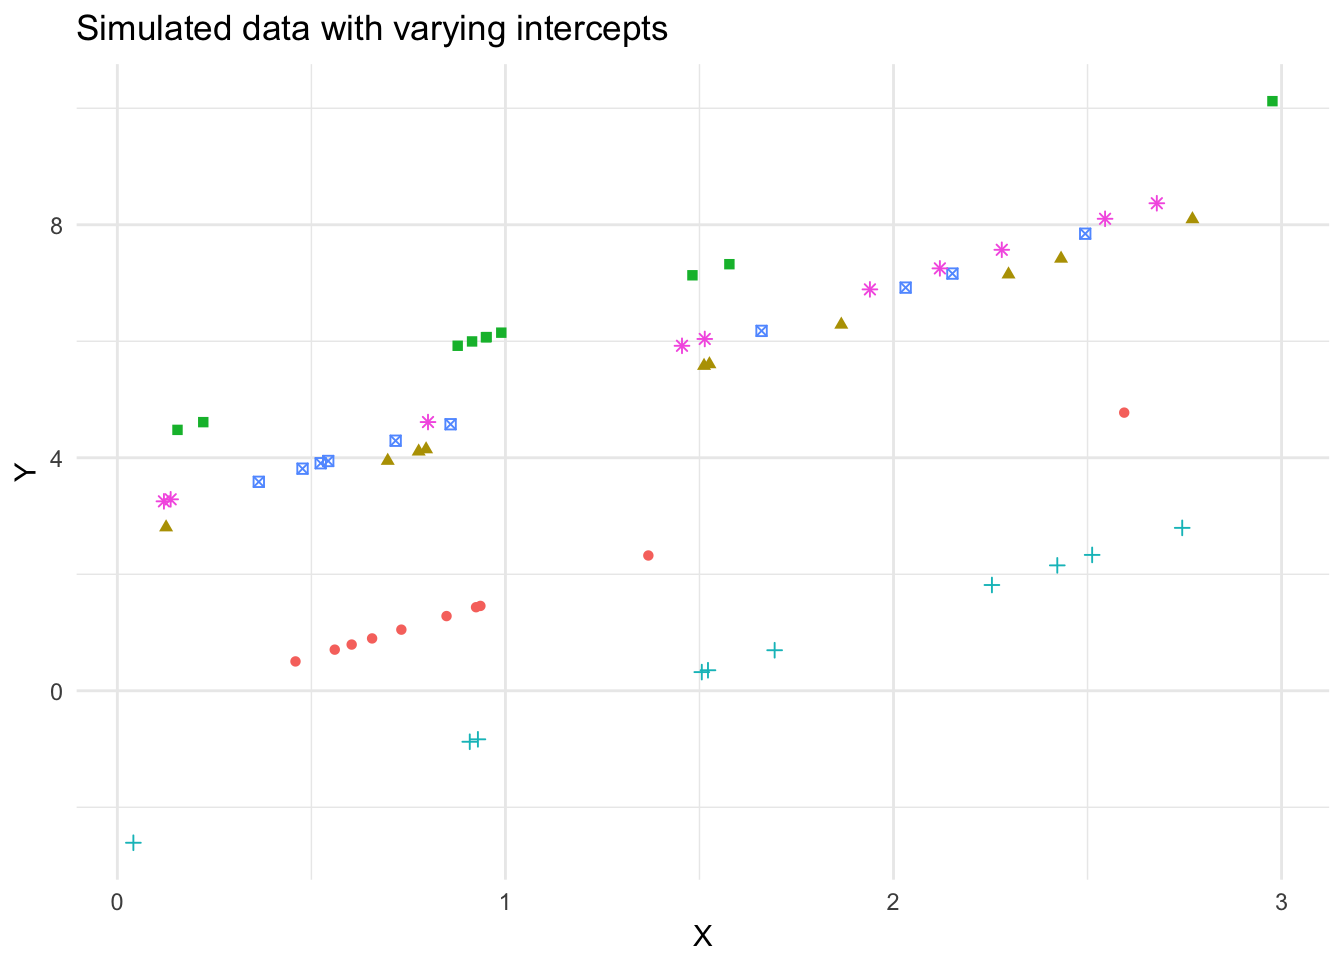
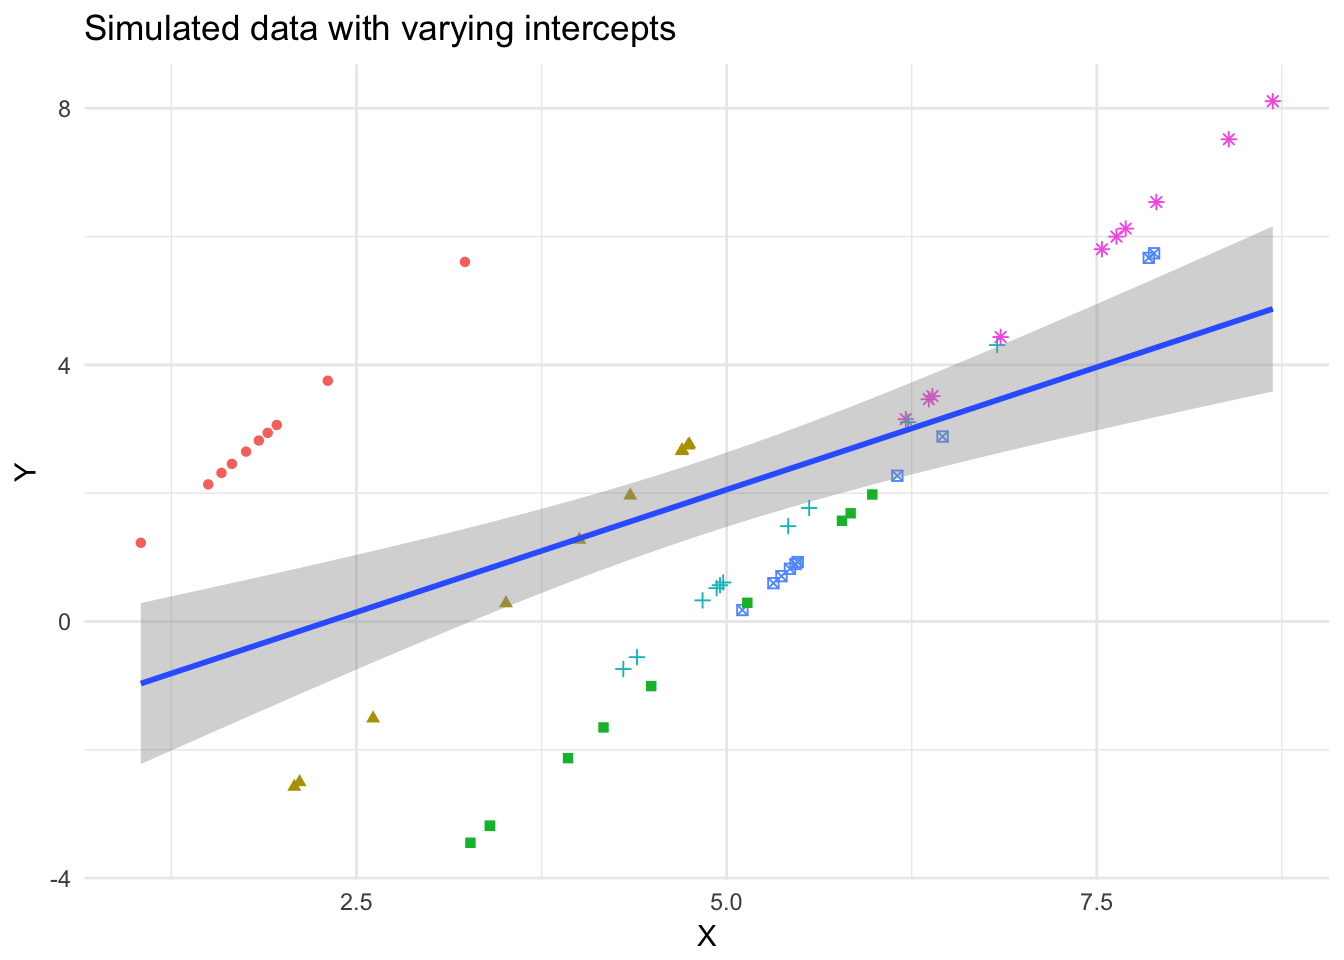
Simulate each type of varying slope/intercept

diff --git a/persp015_multilevel_data.html b/persp015_multilevel_data.html
@@ -471,11 +471,11 @@ p &lt;-<span class="st"> </span><span class="kw">ggplot</span>(vary_int, <span c
        <span class="dt">y =</span> <span class="kw">expression</span>(Y)) +
 <span class="st">  </span><span class="kw">theme</span>(<span class="dt">legend.position =</span> <span class="st">&quot;none&quot;</span>)
 p</code></pre></div>
-<p><img src="persp015_multilevel_data_files/figure-html/sim-vary-int-1.png" width="672" /></p>
+<p><img src="persp015_multilevel_data_files/figure-html/sim-pool-1.png" width="672" /></p>
 <div class="sourceCode"><pre class="sourceCode r"><code class="sourceCode r">p +
 <span class="st">  </span><span class="kw">geom_smooth</span>(<span class="dt">method =</span> <span class="st">&quot;lm&quot;</span>) +
 <span class="st">  </span><span class="kw">labs</span>(<span class="dt">subtitle =</span> <span class="st">&quot;OLS&quot;</span>)</code></pre></div>
-<p><img src="persp015_multilevel_data_files/figure-html/sim-vary-int-2.png" width="672" /></p>
+<p><img src="persp015_multilevel_data_files/figure-html/sim-pool-2.png" width="672" /></p>
 </div>
 <div id="partisan-defection-and-pooling-issues" class="section level2">
 <h2>Partisan defection and pooling issues</h2>
@@ -575,7 +575,10 @@ anes %&gt;%
 <h1>Multilevel Modeling</h1>
 <p>What many social scientists refer to as <strong>random effects</strong>, <a href="http://www.stat.columbia.edu/~gelman/arm/">Gelman and Hill</a> simply call <strong>multilevel modeling</strong>. <strong>Fixed effects</strong> are usually defined as varying coefficients that are not themselves modeled. For example, a classical regression including <span class="math inline">\(J-1\)</span> unit indicators as regression predictors is sometimes called a <strong>fixed-effects model</strong>. As we will see, fixed effects are a subtype of random effects; I (and others) recommend always using random effects and focusing on the description of the model itself (for example, varying intercepts and constant slopes), with the understanding that batches of coefficients (for example, <span class="math inline">\(\alpha_1,\dotsc,\alpha_J\)</span>) will themselves be modeled.</p>
 <p>Multilevel regression can be thought of as a method for compromising between the two extremes of excluding a categorical predictor from a model (<strong>complete pooling</strong>), or estimating separate models within each level of the categorical predictor (<strong>no pooling</strong>). The former ignores within-unit variation, while the latter ignores between-unit variation. Additionally, the no pooling approach prevents the researcher from conducting inference using categorical predictors.<a href="#fn2" class="footnoteRef" id="fnref2"><sup>2</sup></a></p>
-<p>Instead, multilevel modeling uses a compromise between these two approaches. A <strong>soft constraint</strong> is applied to the coefficients: they are assigned a probability distribution. A varying intercept model could take the following form:</p>
+<p>Instead, multilevel modeling uses a compromise between these two approaches. A <strong>soft constraint</strong> is applied to the coefficients: they are assigned a probability distribution.</p>
+<div id="varying-intercepts" class="section level2">
+<h2>Varying intercepts</h2>
+<p>A varying intercept model could take the following form:</p>
 <p><span class="math display">\[
 \begin{align}
 y_i &amp;\sim N(\alpha_{j[i]} + \beta x_{i}, \sigma^2_{y}), \: \text{for} \: i=1,\dotsc,n, \nonumber \\
@@ -584,8 +587,25 @@ y_i &amp;\sim N(\alpha_{j[i]} + \beta x_{i}, \sigma^2_{y}), \: \text{for} \: i=1
 \]</span></p>
 <p><span class="math inline">\(\alpha_{j}\)</span> is now assumed to be distributed normally with a mean <span class="math inline">\(\mu_{\alpha}\)</span> and variance <span class="math inline">\(\sigma^2_{\alpha}\)</span> estimated from the data. This pools the estimates of <span class="math inline">\(\alpha_{j}\)</span> toward the mean level <span class="math inline">\(\mu_{\alpha}\)</span>, but not all the way; thus, group-level estimates are the result of a <strong>partial-pooling</strong> compromise. In the limit of <span class="math inline">\(\sigma_{\alpha} \to \infty\)</span>, the soft constraints do nothing, and there is no pooling; as <span class="math inline">\(\sigma_{\alpha} \to 0\)</span>, they pull the estimates all the way to zero, yielding the complete-pooling estimate. This demonstrates that even if there is no dependence in the errors between groups, multilevel regression will still produce accurate point estimates and standard errors. <strong>Instead of making an assumption about independence, we can directly model it and let the data tell us if any exists.</strong></p>
 <p>This approach also reduces the number of parameters needing to be estimated. For example, a fixed effects approach with 20 groups would require estimating <span class="math inline">\(J-1\)</span> parameters (19). Introducing a soft-constraint and modeling <span class="math inline">\(\alpha\)</span> as a random draw from a single distribution, all we need to estimate is the parameters for this distribution. Typically we assume that the distribution is normal, so we only need to estimate two parameters (the mean <span class="math inline">\(\mu\)</span> and the variance <span class="math inline">\(\sigma^2\)</span>). This increases our degrees of freedom (which could be an issue if we have lots of groups in the dataset). As seen below, this also allows us to introduce group-level predictors into the model.</p>
-<div id="adding-group-level-predictors" class="section level2">
-<h2>Adding group-level predictors</h2>
+<div class="sourceCode"><pre class="sourceCode r"><code class="sourceCode r"><span class="co">#draw x and c from random normal distribution, adjusting for group differences</span>
+x &lt;-<span class="st"> </span><span class="kw">runif</span>(obs, <span class="dv">0</span>, <span class="dv">3</span>) +<span class="st"> </span>groups
+c &lt;-<span class="st"> </span><span class="kw">rep</span>(<span class="kw">rnorm</span>(group.obs, <span class="dv">2</span>, <span class="dv">1</span>), <span class="dt">times =</span> obs /<span class="st"> </span>group.obs) *<span class="st"> </span>groups
+beta &lt;-<span class="st"> </span><span class="dv">2</span>       <span class="co">#set beta</span>
+y &lt;-<span class="st"> </span>beta*(x) -<span class="st"> </span>c <span class="co">#+ rnorm(obs,0,1)     #generate y from x, c, beta, and random noise</span>
+
+sim_data_mlm &lt;-<span class="st"> </span><span class="kw">data_frame</span>(x, y, groups)
+
+<span class="co"># plot data</span>
+<span class="kw">ggplot</span>(sim_data_mlm, <span class="kw">aes</span>(x, y)) +
+<span class="st">  </span><span class="kw">geom_point</span>(<span class="kw">aes</span>(<span class="dt">color =</span> <span class="kw">factor</span>(groups), <span class="dt">shape =</span> <span class="kw">factor</span>(groups))) +
+<span class="st">  </span><span class="kw">geom_smooth</span>(<span class="dt">method =</span> <span class="st">&quot;lm&quot;</span>) +
+<span class="st">  </span><span class="kw">labs</span>(<span class="dt">title =</span> <span class="st">&quot;Simulated data with varying intercepts&quot;</span>,
+       <span class="dt">x =</span> <span class="kw">expression</span>(X),
+       <span class="dt">y =</span> <span class="kw">expression</span>(Y)) +
+<span class="st">  </span><span class="kw">theme</span>(<span class="dt">legend.position =</span> <span class="st">&quot;none&quot;</span>)</code></pre></div>
+<p><img src="persp015_multilevel_data_files/figure-html/sim-vary-int-1.png" width="672" /></p>
+<div id="adding-group-level-predictors" class="section level3">
+<h3>Adding group-level predictors</h3>
 <p>Perhaps we believe certain group-level variables systematically influence the baseline level of <span class="math inline">\(y_{ij}\)</span>. Using this flexible framework, we can simply include them directly in the model as predictors of <span class="math inline">\(\alpha_{J}\)</span>:</p>
 <p><span class="math display">\[
 \begin{align}
@@ -598,6 +618,7 @@ y_i &amp;\sim N(\alpha_{j[i]} + \beta x_{i}, \sigma^2_{y}), \: \text{for} \: i=1
 <li>For linear regression: a one-unit increase on <span class="math inline">\(u_{j}\)</span> is associated with a <span class="math inline">\(\gamma\)</span> increase in <span class="math inline">\(y_{ij}\)</span></li>
 <li>For logistic regression: a one-unit increase on <span class="math inline">\(u_{j}\)</span> is associated with a <span class="math inline">\(\gamma\)</span> increase in the log-odds of the <span class="math inline">\(Pr(y_{ij}=1)\)</span>).</li>
 </ul>
+</div>
 </div>
 <div id="varying-slopes" class="section level2">
 <h2>Varying slopes</h2>
@@ -617,7 +638,39 @@ y_i &amp;\sim N(\alpha_{j[i]} + \beta_{j[i]} x_{i}, \sigma^2_{y}), \: \text{for}
  \end{pmatrix}\right), \: \text{for} \: j=1,\dotsc,J,
 \end{align}
 \]</span></p>
-<p>with variation in the <span class="math inline">\(\alpha_{j}\)</span>’s and the <span class="math inline">\(\beta_{j}\)</span>’s and also a between-group correlation parameter. We can also include group-level predictors:</p>
+<p>with variation in the <span class="math inline">\(\alpha_{j}\)</span>’s and the <span class="math inline">\(\beta_{j}\)</span>’s and also a between-group correlation parameter.</p>
+<div class="sourceCode"><pre class="sourceCode r"><code class="sourceCode r"><span class="co"># constant intercept</span>
+alpha &lt;-<span class="st"> </span><span class="dv">0</span>
+beta &lt;-<span class="st"> </span><span class="kw">rnorm</span>(group.obs, <span class="dv">2</span>, <span class="dv">1</span>)
+y &lt;-<span class="st"> </span>alpha +<span class="st"> </span>beta *<span class="st"> </span>x
+
+sim_data_mlm &lt;-<span class="st"> </span><span class="kw">data_frame</span>(x, y, groups)
+
+<span class="co"># plot data</span>
+<span class="kw">ggplot</span>(sim_data_mlm, <span class="kw">aes</span>(x, y)) +
+<span class="st">  </span><span class="kw">geom_point</span>(<span class="kw">aes</span>(<span class="dt">color =</span> <span class="kw">factor</span>(groups), <span class="dt">shape =</span> <span class="kw">factor</span>(groups))) +
+<span class="st">  </span><span class="kw">geom_smooth</span>(<span class="dt">method =</span> <span class="st">&quot;lm&quot;</span>) +
+<span class="st">  </span><span class="kw">labs</span>(<span class="dt">title =</span> <span class="st">&quot;Simulated data with varying slopes&quot;</span>,
+       <span class="dt">x =</span> <span class="kw">expression</span>(X),
+       <span class="dt">y =</span> <span class="kw">expression</span>(Y)) +
+<span class="st">  </span><span class="kw">theme</span>(<span class="dt">legend.position =</span> <span class="st">&quot;none&quot;</span>)</code></pre></div>
+<p><img src="persp015_multilevel_data_files/figure-html/sim-vary-slope-1.png" width="672" /></p>
+<div class="sourceCode"><pre class="sourceCode r"><code class="sourceCode r"><span class="co"># varying intercept</span>
+alpha &lt;-<span class="st"> </span><span class="kw">rnorm</span>(group.obs,<span class="dv">2</span>,<span class="dv">2</span>)
+y &lt;-<span class="st"> </span>alpha +<span class="st"> </span>beta *<span class="st"> </span>x
+
+sim_data_mlm &lt;-<span class="st"> </span><span class="kw">data_frame</span>(x, y, groups)
+
+<span class="co"># plot data</span>
+<span class="kw">ggplot</span>(sim_data_mlm, <span class="kw">aes</span>(x, y)) +
+<span class="st">  </span><span class="kw">geom_point</span>(<span class="kw">aes</span>(<span class="dt">color =</span> <span class="kw">factor</span>(groups), <span class="dt">shape =</span> <span class="kw">factor</span>(groups))) +
+<span class="st">  </span><span class="kw">geom_smooth</span>(<span class="dt">method =</span> <span class="st">&quot;lm&quot;</span>) +
+<span class="st">  </span><span class="kw">labs</span>(<span class="dt">title =</span> <span class="st">&quot;Simulated data with varying intercepts and slopes&quot;</span>,
+       <span class="dt">x =</span> <span class="kw">expression</span>(X),
+       <span class="dt">y =</span> <span class="kw">expression</span>(Y)) +
+<span class="st">  </span><span class="kw">theme</span>(<span class="dt">legend.position =</span> <span class="st">&quot;none&quot;</span>)</code></pre></div>
+<p><img src="persp015_multilevel_data_files/figure-html/sim-vary-slope-2.png" width="672" /></p>
+<p>We can also include group-level predictors:</p>
 <p><span class="math display">\[
 \begin{align}
 y_i &amp;\sim N(\alpha_{j[i]} + \beta_{j[i]} x_{i}, \sigma^2_{y}), \: \text{for} \: i=1,\dotsc,n, \nonumber \\
@@ -650,31 +703,6 @@ y_i &amp;\sim N(\alpha_{j[i]} + \beta_{j[i]} x_{i}, \sigma^2_{y}), \: \text{for}
 <li>Measuring sample size and power calculations</li>
 <li>Multilevel regression, imputation, and post-stratification (MRP)</li>
 </ul>
-<div class="sourceCode"><pre class="sourceCode r"><code class="sourceCode r"><span class="co">#draw x and c from random normal distribution, adjusting for group differences</span>
-x &lt;-<span class="st"> </span><span class="kw">runif</span>(obs, <span class="dv">0</span>, <span class="dv">3</span>) +<span class="st"> </span>groups
-c &lt;-<span class="st"> </span><span class="kw">rep</span>(<span class="kw">rnorm</span>(group.obs, <span class="dv">2</span>, <span class="dv">1</span>), <span class="dt">times =</span> obs /<span class="st"> </span>group.obs) *<span class="st"> </span>groups
-beta &lt;-<span class="st"> </span><span class="dv">2</span>       <span class="co">#set beta</span>
-y &lt;-<span class="st"> </span>beta*(x) -<span class="st"> </span>c <span class="co">#+ rnorm(obs,0,1)     #generate y from x, c, beta, and random noise</span>
-
-<span class="co">#estimate models</span>
-sim_data_mlm &lt;-<span class="st"> </span><span class="kw">data_frame</span>(x, y, groups)
-ols &lt;-<span class="st"> </span><span class="kw">lm</span>(y ~<span class="st"> </span>x, <span class="dt">data =</span> sim_data_mlm)
-mlm &lt;-<span class="st"> </span><span class="kw">lmer</span>(y ~<span class="st"> </span>x +<span class="st"> </span>(<span class="dv">1</span>|groups), <span class="dt">data =</span> sim_data_mlm)
-
-<span class="co"># plot data</span>
-p &lt;-<span class="st"> </span><span class="kw">ggplot</span>(sim_data_mlm, <span class="kw">aes</span>(x, y)) +
-<span class="st">  </span><span class="kw">geom_point</span>(<span class="kw">aes</span>(<span class="dt">color =</span> <span class="kw">factor</span>(groups), <span class="dt">shape =</span> <span class="kw">factor</span>(groups))) +
-<span class="st">  </span><span class="kw">labs</span>(<span class="dt">title =</span> <span class="st">&quot;Simulated data with varying intercepts&quot;</span>,
-       <span class="dt">x =</span> <span class="kw">expression</span>(X),
-       <span class="dt">y =</span> <span class="kw">expression</span>(Y)) +
-<span class="st">  </span><span class="kw">theme</span>(<span class="dt">legend.position =</span> <span class="st">&quot;none&quot;</span>)
-p</code></pre></div>
-<p><img src="persp015_multilevel_data_files/figure-html/sim-mlm-1.png" width="672" /></p>
-<div class="sourceCode"><pre class="sourceCode r"><code class="sourceCode r"><span class="co"># ols</span>
-p +
-<span class="st">  </span><span class="kw">geom_smooth</span>(<span class="dt">method =</span> <span class="st">&quot;lm&quot;</span>, <span class="dt">se =</span> <span class="ot">FALSE</span>) +
-<span class="st">  </span><span class="kw">geom_line</span>(<span class="dt">data =</span> <span class="kw">add_predictions</span>(sim_data_mlm, mlm), <span class="kw">aes</span>(x, pred, <span class="dt">color =</span> <span class="kw">factor</span>(groups)))</code></pre></div>
-<p><img src="persp015_multilevel_data_files/figure-html/sim-mlm-2.png" width="672" /></p>
 </div>
 </div>
 <div id="implementing-mlm-for-partisan-defection" class="section level1">
@@ -1008,6 +1036,7 @@ glm_feel_def &lt;-<span class="st"> </span>final_year %&gt;%
 ##  backports      1.0.5      2017-01-18
 ##  broom        * 0.4.2      2017-02-13
 ##  car          * 2.1-4      2016-12-02
+##  codetools      0.2-15     2016-10-05
 ##  coefplot     * 1.2.4.9000 2017-04-25
 ##  colorspace     1.3-2      2016-12-14
 ##  DBI            0.6        2017-03-09
@@ -1019,12 +1048,13 @@ glm_feel_def &lt;-<span class="st"> </span>final_year %&gt;%
 ##  foreign        0.8-67     2016-09-13
 ##  ggplot2      * 2.2.1      2016-12-30
 ##  gtable         0.2.0      2016-02-26
-##  haven          1.0.0      2016-09-23
+##  haven        * 1.0.0      2016-09-23
 ##  hms            0.3        2016-11-22
 ##  htmltools      0.3.6      2017-04-28
 ##  httr           1.2.1      2016-07-03
 ##  jsonlite       1.4        2017-04-08
 ##  knitr          1.15.1     2016-11-22
+##  labeling       0.3        2014-08-23
 ##  lattice        0.20-34    2016-09-06
 ##  lazyeval       0.2.0      2016-06-12
 ##  lme4         * 1.1-13     2017-04-19
@@ -1074,6 +1104,7 @@ glm_feel_def &lt;-<span class="st"> </span>final_year %&gt;%
 ##  CRAN (R 3.3.2)                       
 ##  CRAN (R 3.3.2)                       
 ##  CRAN (R 3.3.2)                       
+##  CRAN (R 3.3.3)                       
 ##  Github (jaredlander/coefplot@0755a00)
 ##  CRAN (R 3.3.2)                       
 ##  CRAN (R 3.3.3)                       
@@ -1091,6 +1122,7 @@ glm_feel_def &lt;-<span class="st"> </span>final_year %&gt;%
 ##  CRAN (R 3.3.0)                       
 ##  cran (@1.4)                          
 ##  cran (@1.15.1)                       
+##  CRAN (R 3.3.0)                       
 ##  CRAN (R 3.3.3)                       
 ##  CRAN (R 3.3.0)                       
 ##  cran (@1.1-13)                       
